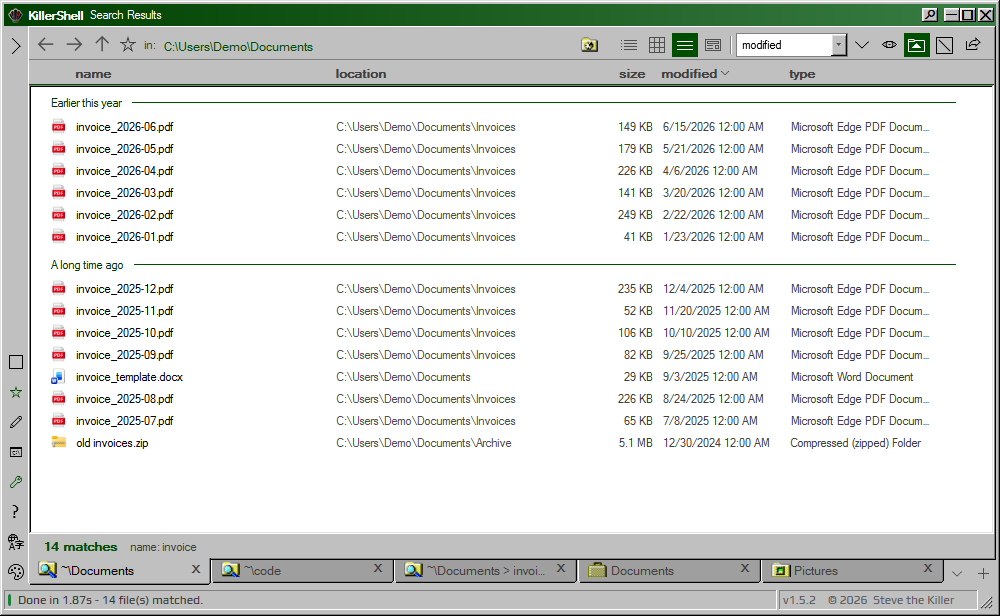
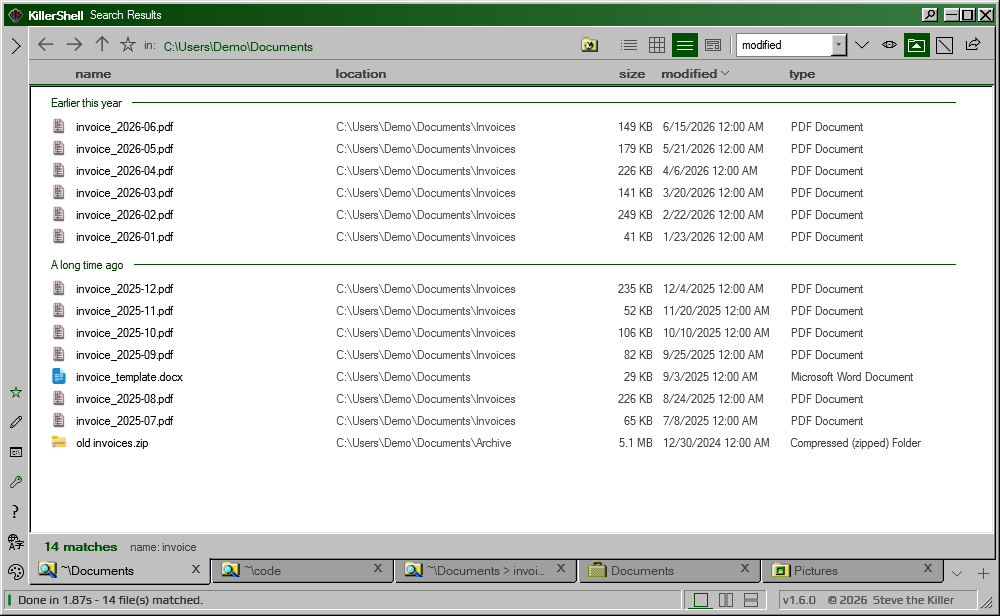
v1.6.0: Refresh landing screenshots 01 to 11 from the 1.6.0 candidate with the file card, footer layout buttons and demo photos

diff --git a/shell-landing/index.html b/shell-landing/index.html
@@ -290,7 +290,7 @@ html[data-theme="light"] .blurb h3, html[data-theme="light"] .feature-card h3 { 
   // placeholder until at least one loads. Drop real screenshots into screenshots/ to populate it.
   var descriptions = [
     "KillerShell stacked panes: a PowerShell script in the editor above Pictures thumbnails, with the selected photo in the details panel.",
-    "KillerShell stacked panes: invoice search results with the file menu open, above Pictures with a photo previewed in the details panel on the right.",
+    "KillerShell stacked panes: invoice search results with the file card open, above Pictures with a photo previewed in the details panel on the right.",
     "KillerShell Cyanotic theme at 125% app size: searching within earlier results in the details view, above a PowerShell script open in the editor, with the folder tree on the right.",
     "KillerShell side-by-side panes: Processes on the left and Registry Editor on the right, with fabricated demo data.",
     "KillerShell Event Viewer listing application events, with the folder tree on the right.",
@@ -359,7 +359,7 @@ html[data-theme="light"] .blurb h3, html[data-theme="light"] .feature-card h3 { 
 
   for (var i = 1; i <= MAX; i++) {
     (function (n) {
-      var src = 'screenshots/' + (n < 10 ? '0' + n : '' + n) + '.png?v=1.5.2-1';
+      var src = 'screenshots/' + (n < 10 ? '0' + n : '' + n) + '.png?v=1.6.0-1';
       var img = new Image();
       img.onload = function () {
         if (empty) { empty.remove(); empty = null; }

diff --git a/README.md b/README.md
@@ -55,7 +55,7 @@ The app itself also takes these switches: `--new-window` (a window of its own), 
 
 <table>
 <tr>
-<td width="50%"><img src="shell-landing/screenshots/02.png" alt="Stacked panes with invoice search results and the file menu above Pictures, with a photo previewed in the details panel"><br><sub>Stack two panes, each with its own tabs and view, and preview the selected file in the details panel.</sub></td>
+<td width="50%"><img src="shell-landing/screenshots/02.png" alt="Stacked panes with invoice search results and the file card above Pictures, with a photo previewed in the details panel"><br><sub>Stack two panes, each with its own tabs and view, and preview the selected file in the details panel.</sub></td>
 <td width="50%"><img src="shell-landing/screenshots/04.png" alt="Processes beside Registry Editor in side-by-side panes"><br><sub>Open Processes, Services and Registry Editor as tabs, side by side with anything else.</sub></td>
 </tr>
 </table>
